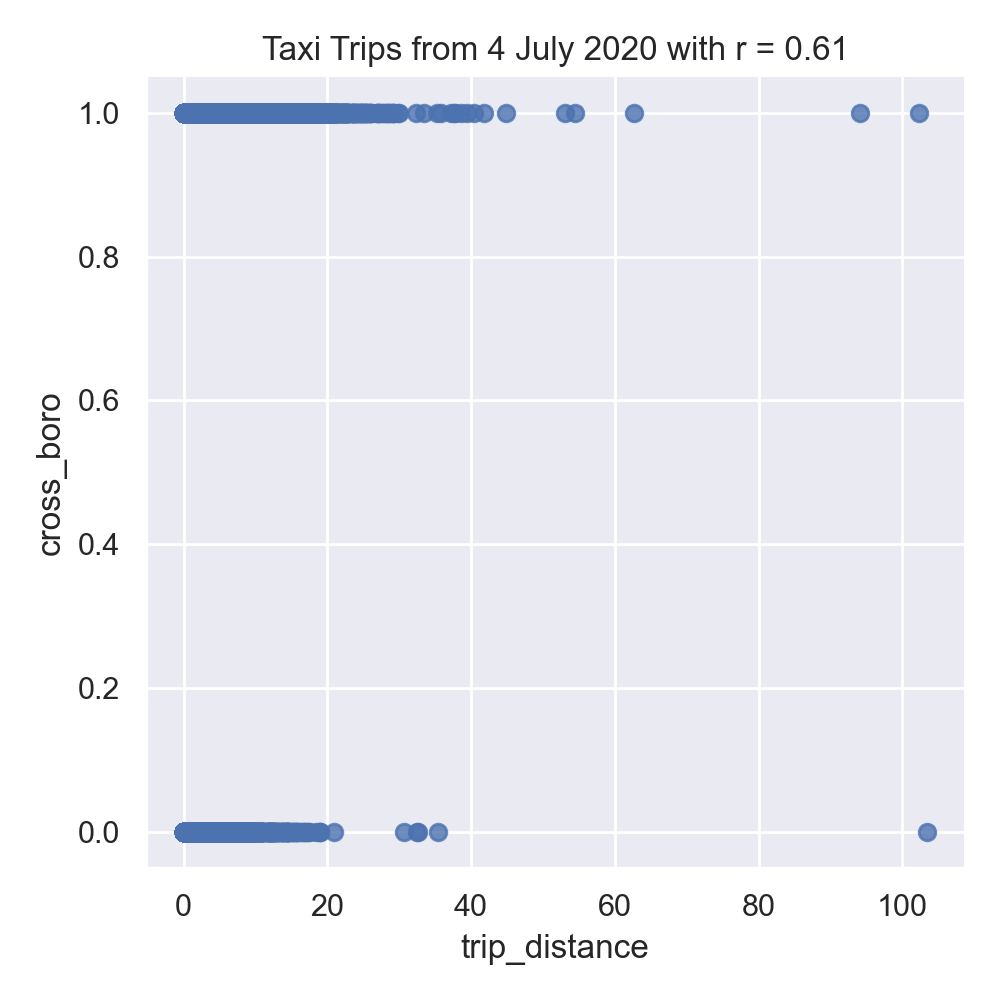
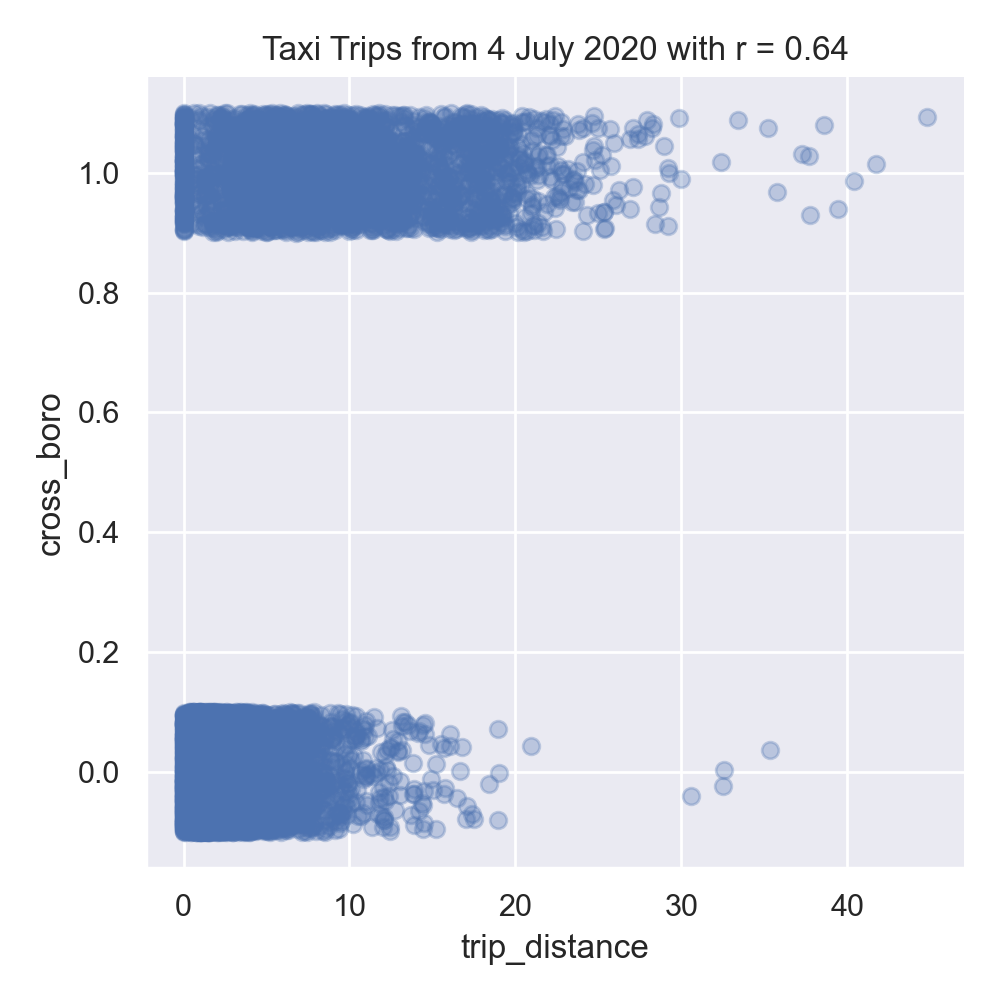
adding in p9

diff --git a/spr22/p9.html b/spr22/p9.html
@@ -187,16 +187,19 @@ And write the following new functions:
       Calls <a href="https://scikit-learn.org/stable/modules/generated/sklearn.model_selection.train_test_split.html">sklearn's train_test_split</a> function to split the data set into a training and testing subsets:  x_train, x_test, y_train, y_test.  The resulting 4 subsets are returned.<br>
       Hint:  see the examples for <a href="p8.html">Program 8</a> for a similar splitting of data into training and testing datasets.
 
-    <li> <code class = "inline">fit_logistic_regression(x_train, y_train,penalty='none'): -> object</code>
-      This function takes three input parameter:
+    <li> <code class = "inline">fit_logistic_regression(x_train, y_train,penalty='none',max_iter=1000): -> object</code>
+      This function takes four input parameter:
       <ul>
           <li> <code class = "inline">x_train</code>: the indepenent variable(s) for the analysis.
           <li> <code class = "inline">y_train</code>: the dependent variable for the analysis.
           <li> <code class = "inline">penalty</code>: the type of regularization applied.  The default value for this parameter is 'none'.
+          <li> <code class = "inline">max_iter</code>: number of iterations allowed when fitting model.  The default value for this parameter is 1000.
       </ul>
       Fits a logistic regression model to the <code class = "inline">x_train</code> and
       <code class = "inline">y_train</code> data, using the logistic model from <a href="https://scikit-learn.org/stable/modules/generated/sklearn.linear_model.LogisticRegression.html">sklearn.linear_model</a>.  The model should use the <code class = "inline">solver = 'saga'</code> to allow all the options for regularization (called <code class = "inline">penalty</code> as the option to the model) be any of <code class = "inline">'elasticnet'</code>, <code class = "inline">'l1'</code>,
-      <code class = "inline">'l2'</code>, and <code class = "inline">'none'</code>).  The resulting model should be returned as bytestream, using <a href="https://docs.python.org/3/library/pickle.html">pickle</a>.
+      <code class = "inline">'l2'</code>, and <code class = "inline">'none'</code>).
+      The parameter <code class = "inline">max_iter</code> should also be used when fitting the model.
+      The resulting model should be returned as bytestream, using <a href="https://docs.python.org/3/library/pickle.html">pickle</a>.
 
     <li> <code class = "inline">predict_using_trained_model(mod_pkl, x, y): -> float,float</code>
       This function takes three inputs:
@@ -261,29 +264,43 @@ prints:
 [14417 rows x 5 columns]</code></pre>
 
 <p>
-Let's explore the data some, by making scatter plots of some of features:
+Let's explore the data some:
 <pre><code class="blockcode">import matplotlib.pyplot as plt
 import seaborn as sns
 sns.set_theme(color_codes=True)
 
 sns.lmplot(x="trip_distance", y="duration", data=df)
 tot_r = df['trip_distance'].corr(df['duration'])
+plt.title(f'All Taxi Trips from 4 July 2020 with r = {tot_r:.2f}')
+plt.tight_layout()  #for nicer margins
+plt.show()</code></pre>
+
+<p>The resulting plot:
+<p><img src="taxi_all_dist_v_duration.png" height = 300>
+
+<p>There are some extremely long trips in there-- some over 100 miles.  To focus on trips that stay within the city, let's limit our data to trips that are less than 50 miles in distance, and explore the data by making scatter plots of some of the features:
+
+<pre><code class="blockcode">df = df[df['trip_distance'] < 50]
+
+sns.lmplot(x="trip_distance", y="duration", data=df)
+tot_r = df['trip_distance'].corr(df['duration'])
 plt.title(f'Taxi Trips from 4 July 2020 with r = {tot_r:.2f}')
 plt.tight_layout()  #for nicer margins
 plt.show()
-sns.lmplot(x="trip_distance", y="paid_toll", data=df,fit_reg=False)
+sns.lmplot(x="trip_distance", y="paid_toll", data=df,fit_reg=False,y_jitter=0.1,
+           scatter_kws={'alpha': 0.3})
 dist_r = df['trip_distance'].corr(df['paid_toll'])
 plt.title(f'Taxi Trips from 4 July 2020 with r = {dist_r:.2f}')
 plt.tight_layout()  #for nicer margins
 plt.show()
-sns.lmplot(x="trip_distance", y="cross_boro", data=df,fit_reg=False)
+sns.lmplot(x="trip_distance", y="cross_boro", data=df,fit_reg=False,y_jitter=0.1,
+           scatter_kws={'alpha': 0.3})
 dist_r = df['trip_distance'].corr(df['cross_boro'])
 plt.title(f'Taxi Trips from 4 July 2020 with r = {dist_r:.2f}')
 plt.tight_layout()  #for nicer margins
 plt.show()</code></pre>
 
-
-<p>The resulting images:
+<p>As discussed in Lecture 16 and <a href="http://www.textbook.ds100.org/ch/24/classification_cost.html">Chapter 24</a>, we added jitter to the y-values to better visualize the data since so much has similar values:
 
 <p><img src="taxi_dist_v_duration.png" height = 300>
 <img src="taxi_dist_v_paid_toll.png" height = 300>
@@ -291,66 +308,114 @@ plt.show()</code></pre>
 
 
 <p>
-Interestingly, in our left image, the distance traveled and the duration of the trip are not strongly correlated.  The middle image show negative correlation between trip distance and paying tolls, with outliers influencing the relationship.  While the right images shows the trip distance positively correlated with trips that start and end in different boroughs.
-
-<br><br><i>More details to follow...</i>
-<!--
-Let's build a logistic model on just these two features:  trip_distance and cross_boro.
+Interestingly, in our left image, the distance traveled and the duration of the trip are not strongly correlated.  The middle image show negative correlation between trip distance and paying tolls.  While the right images shows the trip distance positively correlated with trips that start and end in different boroughs.
 
 <p>
 Next, let's encode the categorical columns for pick up and drop off boroughs so we can use them as inputs for our model.
 
-<pre><code class="blockcode"></code></pre>
+<pre><code class="blockcode">df_pu = answer.encode_categorical_col(df['PU_borough'],'PU_')
+print(df_pu.head())
+df_do = answer.encode_categorical_col(df['DO_borough'],'DO_')
+print(df_do.head())</code></pre>
 
-<p>
+<p>The first few lines of the resulting DataFrames:
 
-<pre><code class="datablock"></code></pre>
+<pre><code class="datablock">   PU_Bronx  PU_Brooklyn  PU_Manhattan  PU_Queens
+0         0            0             1          0
+1         1            0             0          0
+2         0            0             1          0
+3         0            0             1          0
+4         0            0             1          0
+   DO_Bronx  DO_Brooklyn  DO_EWR  DO_Manhattan  DO_Queens
+0         0            0       0             1          0
+1         1            0       0             0          0
+2         0            0       0             0          1
+3         0            0       0             1          0
+4         0            0       0             1          0</code></pre>
 
-<p>We'll split our data into training and testing data sets:
+<p>Let's combine all the DataFrames into one (using <a href="https://pandas.pydata.org/docs/reference/api/pandas.concat.html">concat</a> along column axis):
 
-<pre><code class="blockcode"></code></pre>
+<pre><code class="blockcode">df_all = pd.concat( [df,df_pu,df_do], axis=1)
+print(f'The combined DataFrame has columns: {df_all.columns}')
+</code></pre>
 
-<p>
+<p>The combined DataFrame has the columns:
 
-<pre><code class="datablock"></code></pre>
+<pre><code class="datablock">The combined DataFrame has columns:
+Index(['VendorID', 'tpep_pickup_datetime', 'tpep_dropoff_datetime',
+       'passenger_count', 'trip_distance', 'RatecodeID', 'store_and_fwd_flag',
+       'PULocationID', 'DOLocationID', 'payment_type', 'fare_amount', 'extra',
+       'mta_tax', 'tip_amount', 'tolls_amount', 'improvement_surcharge',
+       'total_amount', 'congestion_surcharge', 'percent_tip', 'duration',
+       'dayofweek', 'PU_borough', 'DO_borough', 'paid_toll', 'cross_boro',
+       'PU_Bronx', 'PU_Brooklyn', 'PU_Manhattan', 'PU_Queens', 'DO_Bronx',
+       'DO_Brooklyn', 'DO_EWR', 'DO_Manhattan', 'DO_Queens'],
+      dtype='object')</code></pre>
 
-<p>Now, we're ready to fit some models to our data.  We'll try first just a single independent variable, trip_distance, and build a logistic model without regularization, to predict when trips start in one borough and end in another:
+For the taxi data, there is a special zone for trips to Newark Airport, and as such we have a drop off borough location of 'DO_EWR'.
+We'll focus on the numeric columns, split our data into training and testing data sets:
+
+<pre><code class="blockcode">x_col_names = ['passenger_count', 'trip_distance', 'RatecodeID', 'PULocationID',
+          'DOLocationID', 'payment_type', 'fare_amount', 'extra', 'mta_tax',
+          'tip_amount', 'tolls_amount', 'improvement_surcharge', 'total_amount',
+          'congestion_surcharge', 'percent_tip', 'duration', 'dayofweek',
+          'paid_toll', 'PU_Bronx', 'PU_Brooklyn', 'PU_Manhattan', 'PU_Queens',
+          'DO_Bronx', 'DO_Brooklyn', 'DO_EWR', 'DO_Manhattan', 'DO_Queens']
+y_col_name = 'cross_boro'
+x_train, x_test, y_train, y_test = answer.split_test_train(df_all, x_col_names, y_col_name)
+</code></pre>
 
 
-<pre><code class="blockcode"></code></pre>
-
-<p>
-
-<pre><code class="datablock"></code></pre>
+<p>Now, we're ready to fit some models to our data.  We'll try first just a single independent variable, <code class = "inline">trip_distance</code>, and build a logistic model without regularization, to predict when trips start in one borough and end in another (when <code class = "inline">cross_boro</code> is 1):
 
 
-<p>Let's add in different regularization approaches:
+<pre><code class="blockcode">for p in ['none','l1','l2']:
+print(f'Fitting a model with regression = {p}:')
+    mod = answer.fit_logistic_regression(x_train[['trip_distance']],y_train,penalty=p)
+    mse_tr, r2_tr = answer.predict_using_trained_model(mod,x_train[['trip_distance']],y_train)
+    print(f'\ttraining data: mean squared error = {mse_tr:8.8} and r2 = {r2_tr:4.4}.')
+    mse_val, r2_val = answer.predict_using_trained_model(mod,x_test[['trip_distance']],y_test)
+    print(f'\ttesting data: mean squared error = {mse_val:8.8} and r2 = {r2_val:4.4}.')</code></pre>
 
-<pre><code class="blockcode"></code></pre>
+<p>Our training set of 75% of the data, does well both on both training and testing.  For this data, regularization does not significantly affect the results:
 
-<p>
+<pre><code class="datablock">Fitting a model with regression = none:
+	training data: mean squared error = 0.10751295 and r2 = 0.3152.
+	testing data: mean squared error = 0.1110186 and r2 = 0.2984.
+Fitting a model with regression = l1:
+	training data: mean squared error = 0.10751295 and r2 = 0.3152.
+	testing data: mean squared error = 0.1110186 and r2 = 0.2984.
+Fitting a model with regression = l2:
+	training data: mean squared error = 0.10751295 and r2 = 0.3152.
+	testing data: mean squared error = 0.1110186 and r2 = 0.2984.</code></pre>
 
-<pre><code class="datablock"></code></pre>
 
-<p>
-  And now try with additional features:
-Build logistic model, wo Regularization and with regularization.  Then save models as pkl files to use/compare for later.  Do similar analysis with multiple inputs.
+<p>Let's use more of the numeric columns for a model, as well as different regularization approaches, and evaluate the results.  We increased the number of iterations to allow the model to converge.
 
-<pre><code class="blockcode"></code></pre>
+<pre><code class="blockcode">x_cols = ['trip_distance','dayofweek','paid_toll', 'PU_Bronx', 'PU_Brooklyn','PU_Manhattan', 'PU_Queens']
+print(f'For independent variables:  {x_cols}:')
+for p in ['none','l1','l2']:
+    print(f'Fitting a model with regression = {p}:')
+    mod = answer.fit_logistic_regression(x_train[x_cols],y_train,penalty=p,max_iter=2000)
+    mse_tr, r2_tr = answer.predict_using_trained_model(mod,x_train[x_cols],y_train)
+    print(f'\ttraining data: mean squared error = {mse_tr:8.8} and r2 = {r2_tr:4.4}.')
+    mse_val, r2_val = answer.predict_using_trained_model(mod,x_test[x_cols],y_test)
+    print(f'\ttesting data: mean squared error = {mse_val:8.8} and r2 = {r2_val:4.4}.')
+</code></pre>
 
-<p>
+<p>All of the models do better with the training subset than the testing subset.  Adding regularization did not help the mean squared error, but showed some improvement for the r2 measure:
 
-<pre><code class="datablock"></code></pre>
+<pre><code class="datablock">For independent variables:  ['trip_distance', 'dayofweek', 'paid_toll', 'PU_Bronx', 'PU_Brooklyn', 'PU_Manhattan', 'PU_Queens']:
+Fitting a model with regression = none:
+	training data: mean squared error = 0.092801628 and r2 = 0.4089.
+	testing data: mean squared error = 0.095198446 and r2 = 0.3983.
+Fitting a model with regression = l1:
+	training data: mean squared error = 0.093079201 and r2 = 0.4071.
+	testing data: mean squared error = 0.096031085 and r2 = 0.3931.
+Fitting a model with regression = l2:
+	training data: mean squared error = 0.093541821 and r2 = 0.4042.
+	testing data: mean squared error = 0.096586178 and r2 = 0.3896.</code></pre>
 
-<p>
-Let's build a more complicated model that uses multiple inputs, including the numerical columns:
-
-<pre><code class="blockcode"></code></pre>
-
-<p>
-
-<pre><code class="datablock"></code></pre>
--->
 </div>
 </body>
 </html>

diff --git a/spr22/work.html b/spr22/work.html
@@ -443,11 +443,12 @@ and then followed by his Python program.
   <p><a name="p8"><b><b><a href="p8.html">Program 8: Yellow Taxi Data.</a></b></b> &emsp; <i>Due noon, Thursday, 31 March.
     <br>Learning Objective: give students practice on implementing model from start to finish and to strengthen understanding of model drift.</i>
 
-<!--
+
 <br>
   <p><a name="p9"><b><b><a href="p9.html">Program 9: Logistic Taxi.</a></b></b> &emsp; <i>Due noon, Thursday, 7 April.
     <br>Learning Objective:  to train and validate models, given quantitative and qualitative data, as well as assessing model quality.</i>
 
+<!--
 <br>
   <p><a name="p10"><b><b><a href="p10.html">Program 10: Classifying Digits.</a></b></b> &emsp; <i>Due noon, Thursday, 14 April.
     <br>Learning Objective:  to train and validate models, given quantitative and qualitative data, as well as assessing model quality.</i>
